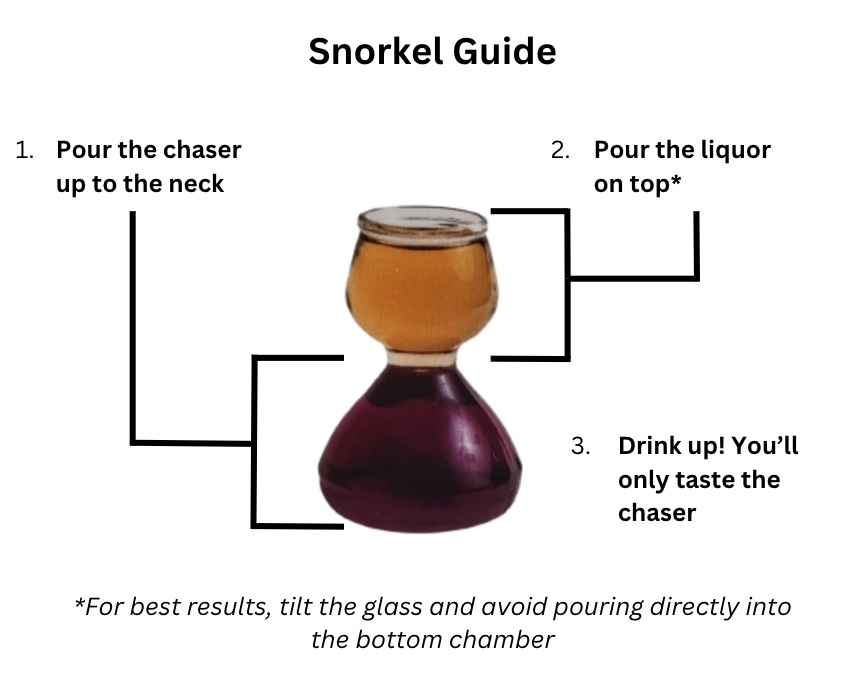
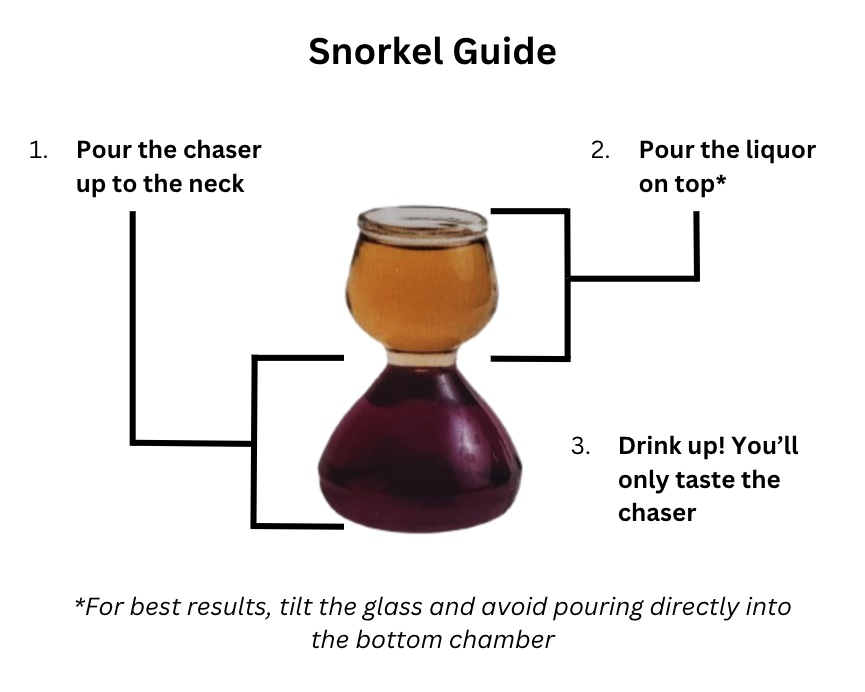
UPdates

diff --git a/src/app/page.js b/src/app/page.js
@@ -89,7 +89,7 @@ export default function LandingPage() {
           <h2 className="text-3xl md:text-4xl font-bold text-center mb-6 text-sky-900">How Does It Work?</h2>
           <div className="mx-auto justify-center flex mb-8">
             <img 
-              src="/SnorkelGuideNew.jpeg"
+              src="/SnorkelGuide.jpeg"
               alt="Snorkel Guide"
               className="rounded-xl shadow-xl max-w-2xl w-full sm:w-auto"
             />
